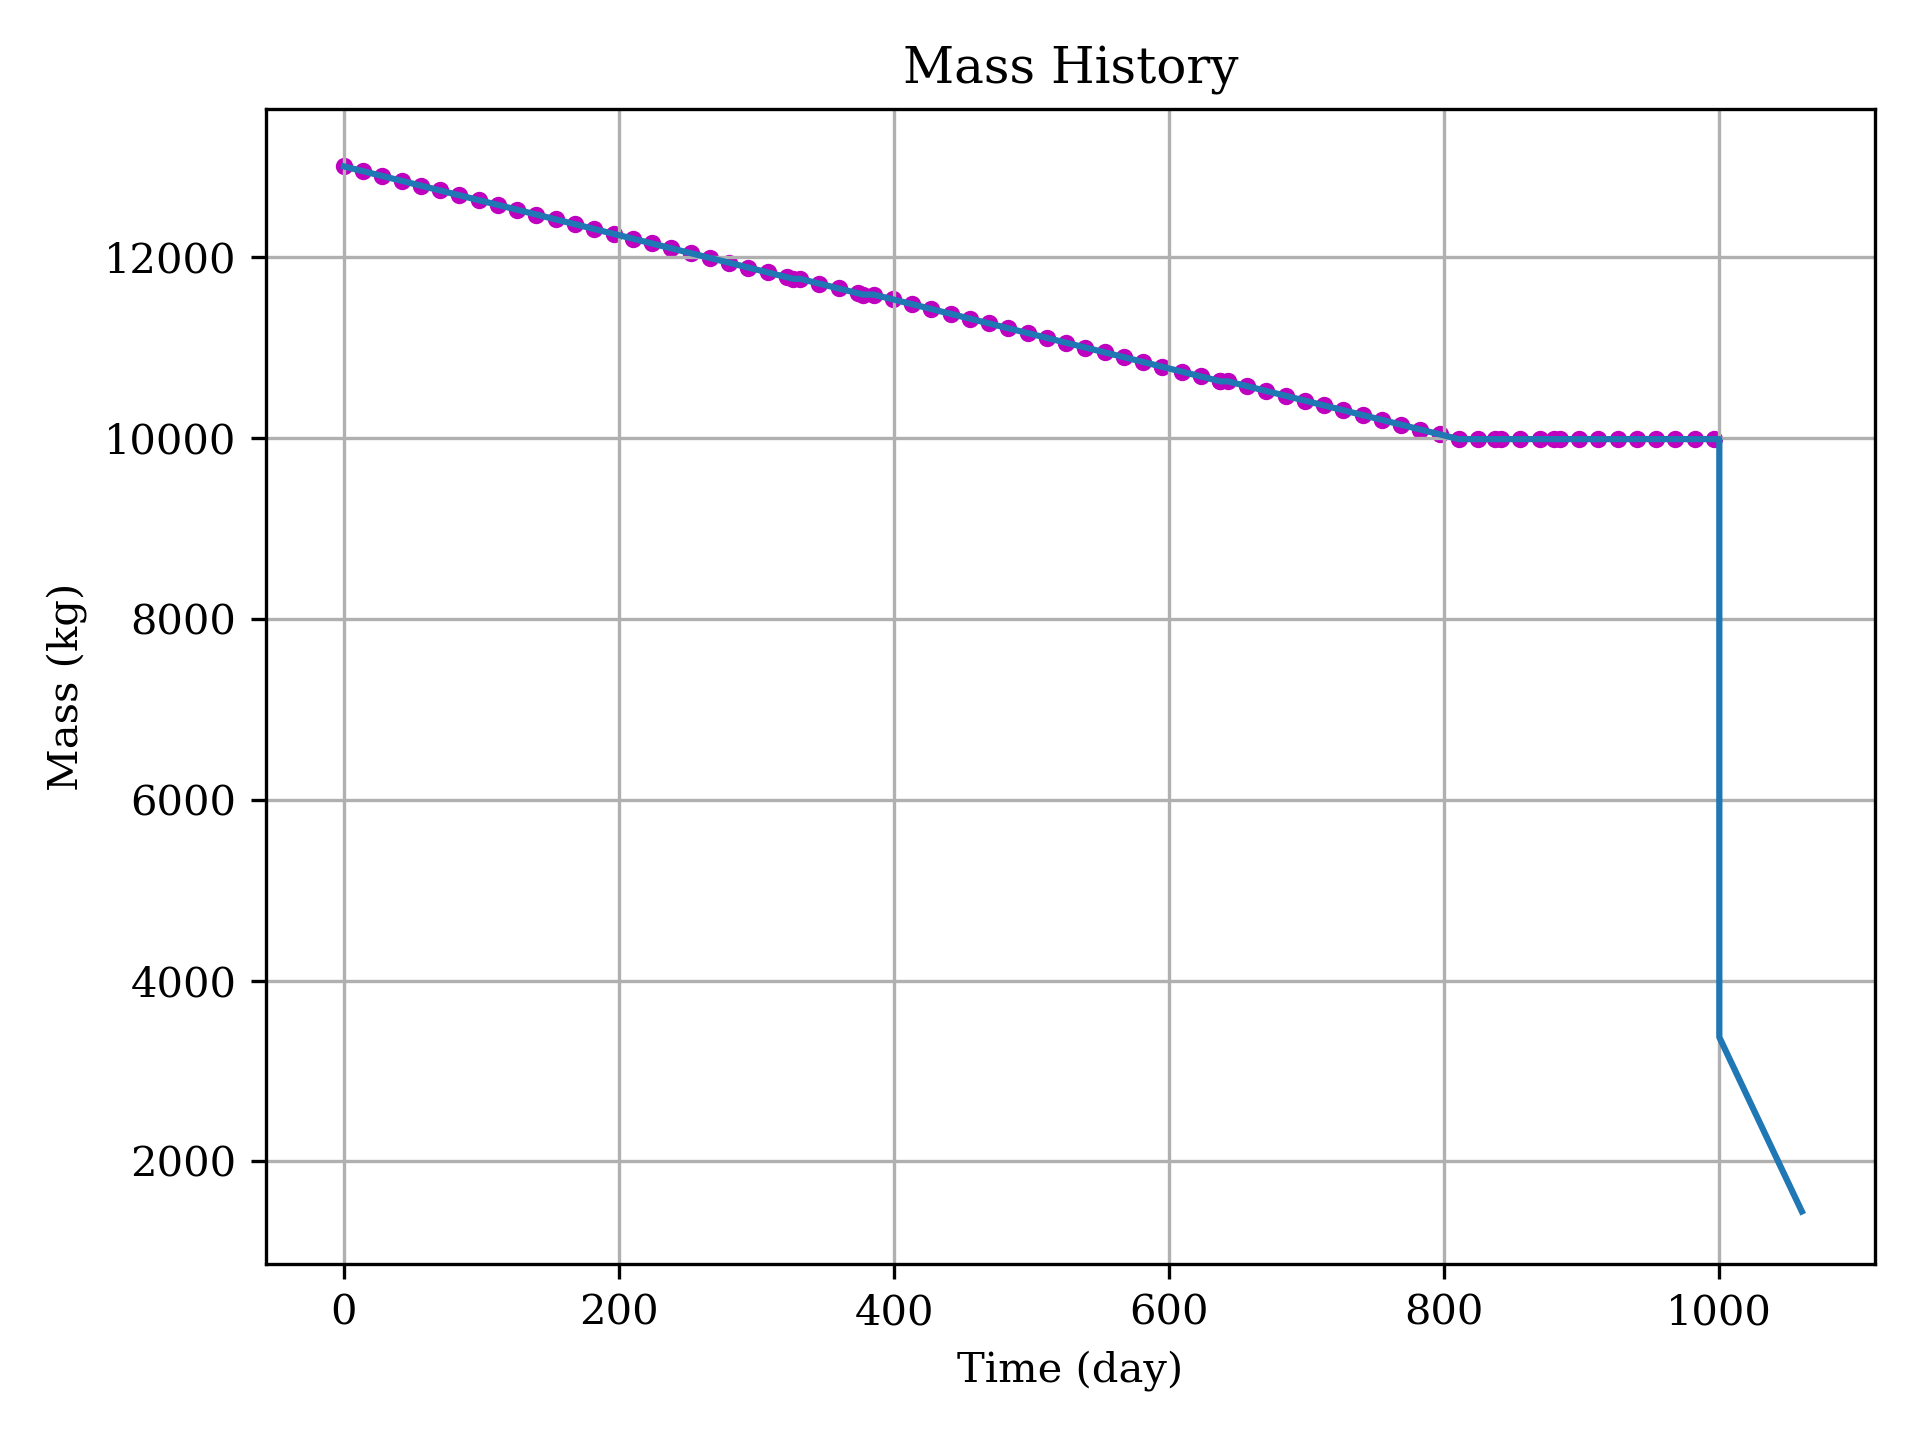
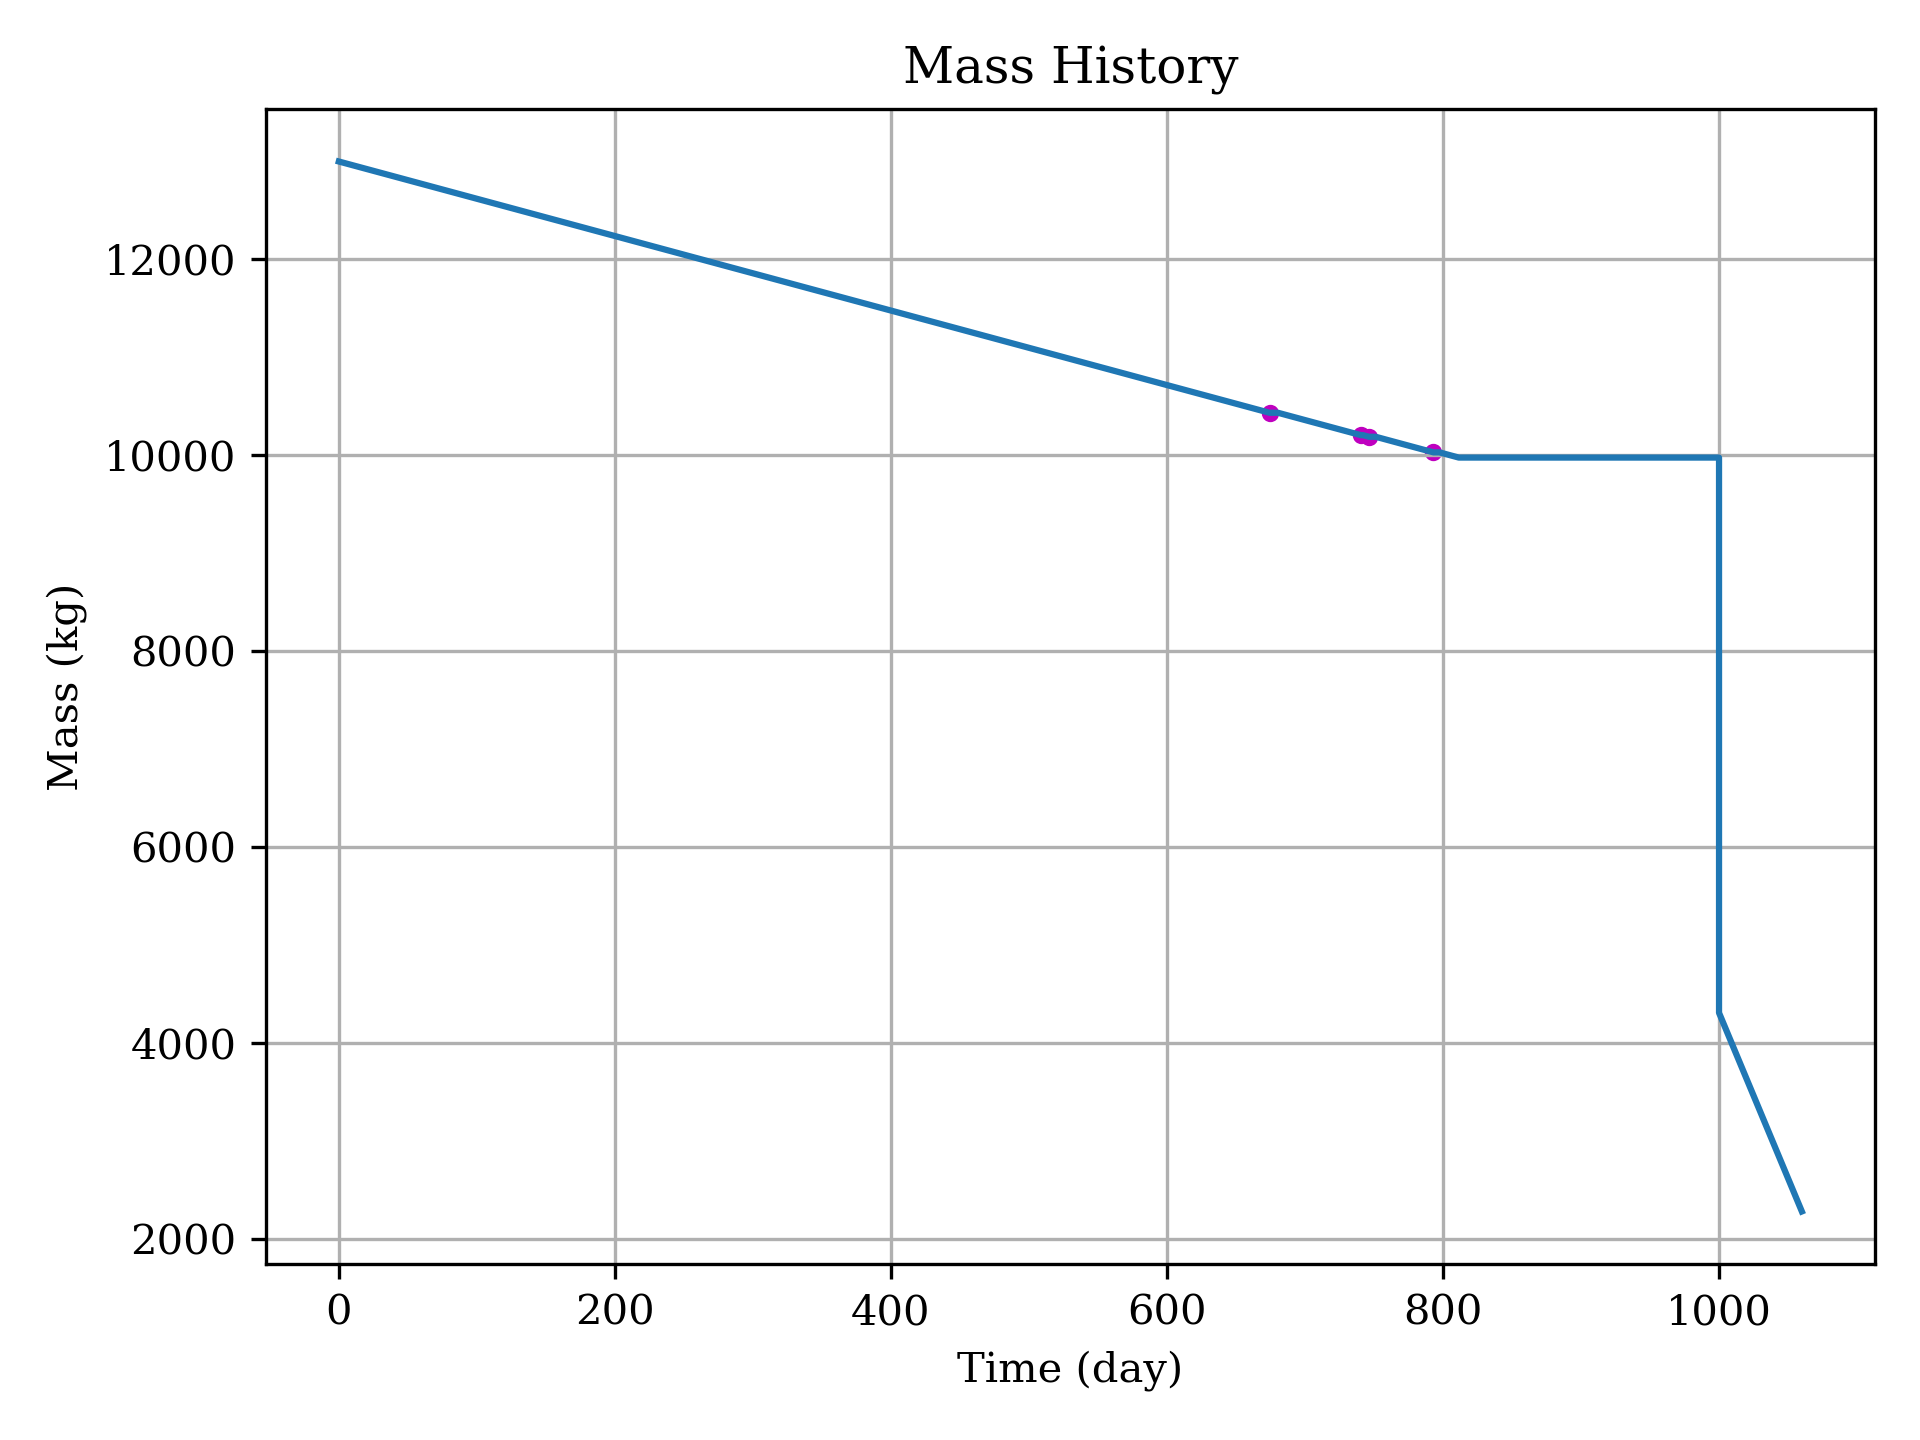
Small bug fix in plotter.

diff --git a/plotter.py b/plotter.py
@@ -206,7 +206,8 @@ def plot_mass_history(t: np.ndarray, m: np.ndarray, show_plot: bool = False, sav
     ax.plot(t, m)
     if is_outage is not None:
         for i, is_out in enumerate(is_outage):
-            ax.scatter(t[i], m[i], c='m', s=10)
+            if is_out:
+                ax.scatter(t[i], m[i], c='m', s=10)
     ax.set_title('Mass History')
     ax.set_xlabel('Time (day)')
     ax.set_ylabel('Mass (kg)')
